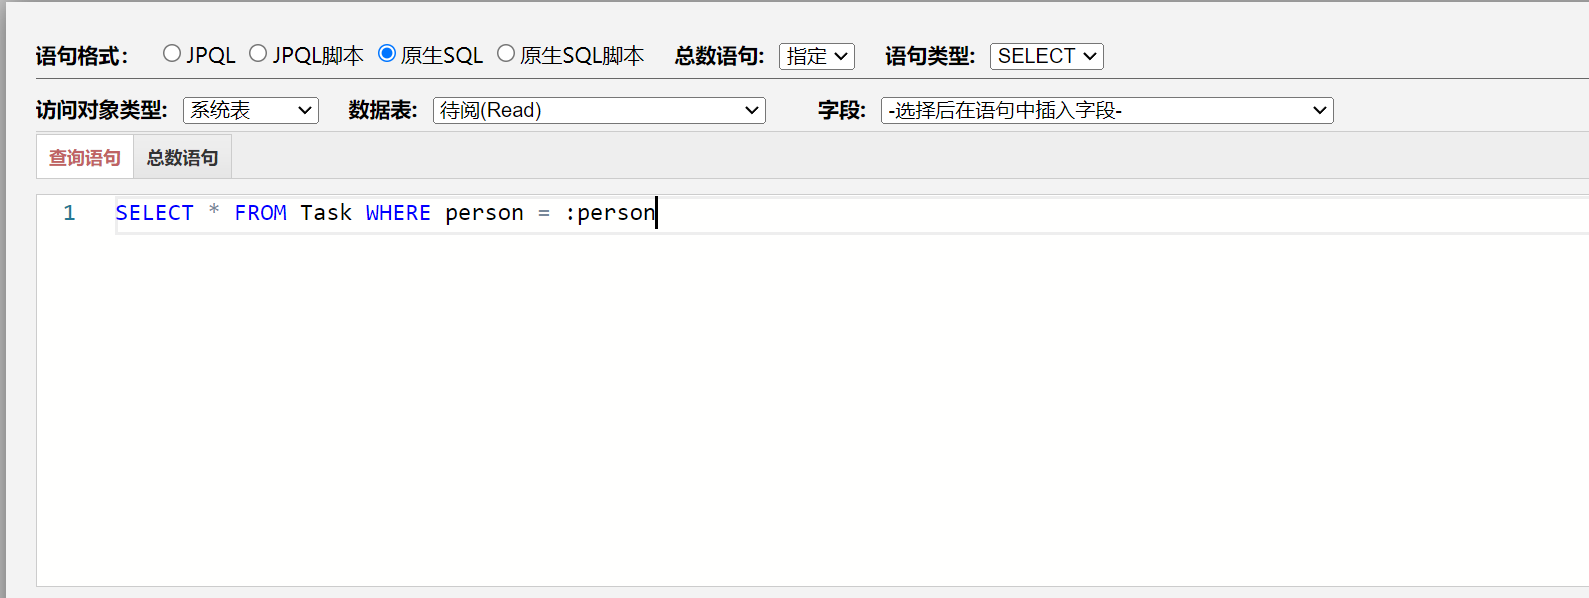
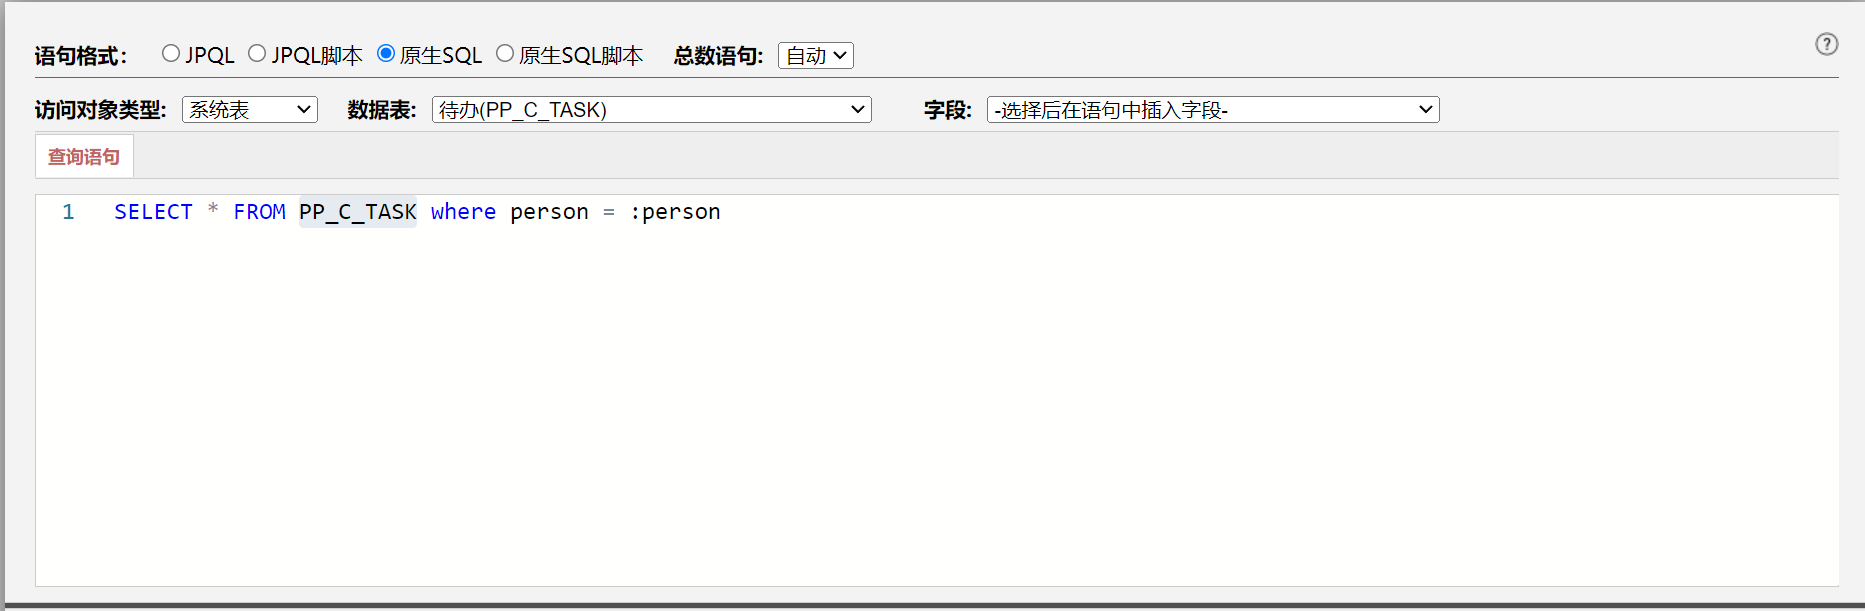
nativeSql

Changed region(s): [[0.0, 0.0602, 0.9868, 0.3913], [0.0, 0.9632, 1.0, 1.0], [0.9559, 0.0602, 0.9868, 0.0903]]

diff --git a/o2web/source/x_component_query_StatementDesigner/Statement.js b/o2web/source/x_component_query_StatementDesigner/Statement.js
@@ -365,20 +365,33 @@ MWF.xApplication.query.StatementDesigner.Statement = new Class({
             // this.runDefaultNode = this.runContentNode.getElement(".o2_statement_statementRunDefaultContent");
             this.setRunnerSize();
             this.designer.addEvent("resize", this.setRunnerSize.bind(this));
+            debugger;
             switch (this.json.format) {
                 case "script":
+                    this.jpqlOfficalTable.show();
+                    this.sqlOfficalTable.hide();
+
                     this.loadJpqlScriptEditor();
                     this.loadJpqlCountScriptEditor();
                     break;
                 case "sql":
+                    this.jpqlOfficalTable.hide();
+                    this.sqlOfficalTable.show();
+
                     this.loadSqlEditor();
                     this.loadSqlCountEditor();
                     break;
                 case "sqlScript":
+                    this.jpqlOfficalTable.hide();
+                    this.sqlOfficalTable.show();
+
                     this.loadSqlScriptEditor();
                     this.loadSqlCountScriptEditor();
                     break;
                 default:
+                    this.jpqlOfficalTable.show();
+                    this.sqlOfficalTable.hide();
+
                     this.loadJpqlEditor();
                     this.loadJpqlCountEditor();
             }
@@ -868,19 +881,19 @@ MWF.xApplication.query.StatementDesigner.Statement = new Class({
             case "com.x.processplatform.core.entity.content.Task":
                 return "PP_C_TASK";
             case "com.x.processplatform.core.entity.content.TaskCompleted":
-                return "";
+                return "PP_C_TASKCOMPLETED";
             case "com.x.processplatform.core.entity.content.Read":
-                return "";
+                return "PP_C_READ";
             case "com.x.processplatform.core.entity.content.ReadCompleted":
-                return "";
+                return "PP_C_READCOMPLETED";
             case "com.x.processplatform.core.entity.content.Work":
-                return "";
+                return "PP_C_WORK";
             case "com.x.processplatform.core.entity.content.WorkCompleted":
-                return "";
+                return "PP_C_WORKCOMPLETED";
             case "com.x.processplatform.core.entity.content.Review":
-                return "";
+                return "PP_C_REVIEW";
             case "com.x.cms.core.entity.Document":
-                return "";
+                return "CMS_DOCUMENT";
         }
     },
     setEvent: function () {
@@ -894,6 +907,9 @@ MWF.xApplication.query.StatementDesigner.Statement = new Class({
                 var v = e.target.get("value");
                 switch (v) {
                     case "sql":
+                        this.jpqlOfficalTable.hide();
+                        this.sqlOfficalTable.show();
+
                         this.jpqlArea.hide();
                         this.jpqlScriptArea.hide();
                         this.sqlArea.show();
@@ -907,6 +923,9 @@ MWF.xApplication.query.StatementDesigner.Statement = new Class({
                         this.loadSqlCountEditor();
                         break;
                     case "sqlScript":
+                        this.jpqlOfficalTable.hide();
+                        this.sqlOfficalTable.show();
+
                         this.jpqlArea.hide();
                         this.jpqlScriptArea.hide();
                         this.sqlArea.hide();
@@ -920,6 +939,9 @@ MWF.xApplication.query.StatementDesigner.Statement = new Class({
                         this.loadSqlCountScriptEditor();
                         break;
                     case "script":
+                        this.jpqlOfficalTable.show();
+                        this.sqlOfficalTable.hide();
+
                         this.jpqlArea.hide();
                         this.jpqlScriptArea.show();
                         this.sqlArea.hide();
@@ -933,6 +955,9 @@ MWF.xApplication.query.StatementDesigner.Statement = new Class({
                         this.loadJpqlCountScriptEditor();
                         break;
                     default:
+                        this.jpqlOfficalTable.show();
+                        this.sqlOfficalTable.hide();
+
                         this.jpqlArea.show();
                         this.jpqlScriptArea.hide();
                         this.sqlArea.hide();
@@ -994,7 +1019,7 @@ MWF.xApplication.query.StatementDesigner.Statement = new Class({
             var entityClassName = e.target.options[e.target.selectedIndex].value;
             this.json.entityClassName = entityClassName;
             if( entityClassName ){
-                this.changeEditorEntityClassName( entityClassName.split(".").getLast() );
+                this.changeEditorEntityClassName( this.getSQLTableByEntity(entityClassName) );
             }
             this.loadFieldSelect();
 
@@ -1076,22 +1101,25 @@ MWF.xApplication.query.StatementDesigner.Statement = new Class({
     },
     changeEditorEntityClassName : function( entityClassName ){
 
-        var replaceClassName = function (re, v) {
-            if( !re )re = /(.*from\s*)/ig;
-            //var re2 = /(\s+)/ig;
-            var arr = re.exec(v);
-            if (arr && arr[0]) {
-                var left = arr[0];
-                v = v.substring(left.length, v.length);
-                //var ar = re2.exec(v);
-                var right = v.substring(v.indexOf(" "), v.length);
-                return left + entityClassName + right;
-            }
-            return "";
-        };
+        debugger;
 
-        var re, v;
+        var re, v, replaceClassName;
         if (this.json.format === "jpql") {
+
+            replaceClassName = function (re, v) {
+                if( !re )re = /(.*from\s*)/ig;
+                //var re2 = /(\s+)/ig;
+                var arr = re.exec(v);
+                if (arr && arr[0]) {
+                    var left = arr[0];
+                    v = v.substring(left.length, v.length);
+                    //var ar = re2.exec(v);
+                    var right = v.substring(v.indexOf(" "), v.length);
+                    return left + entityClassName + right;
+                }
+                return "";
+            };
+
             if (this.jpqlEditor) {
                 // if (this.json.type === "update") re = /(.*update\s*)/ig;
                 v = replaceClassName( re, this.json.data);
@@ -1109,6 +1137,26 @@ MWF.xApplication.query.StatementDesigner.Statement = new Class({
                 }
             }
         }else if (this.json.format === "sql") {
+
+            replaceClassName = function (re, v) {
+                if( !re )re = /(.*from\s*)/ig;
+                //var re2 = /(\s+)/ig;
+                var arr = re.exec(v);
+                if (arr && arr[0]) {
+                    var left = arr[0];
+                    v = v.substring(left.length, v.length);
+                    //var ar = re2.exec(v);
+                    var right;
+                    if( v.indexOf(" ") > -1 ){
+                        right = v.substring(v.indexOf(" "), v.length);
+                    }else{
+                        right = "";
+                    }
+                    return left + entityClassName + right;
+                }
+                return "";
+            };
+
             if (this.sqlEditor) {
                 // if (this.json.type === "update") re = /(.*update\s*)/ig;
                 v = replaceClassName( re, this.json.sql);
@@ -1142,7 +1190,8 @@ MWF.xApplication.query.StatementDesigner.Statement = new Class({
                     this.json.table = name;
                     this.json.tableObj = items[0].data;
 
-                    this.officialTableSelect.options[0].set("selected", true);
+                    this.officialTableSelectJPQL.options[0].set("selected", true);
+                    this.officialTableSelectSQL.options[0].set("selected", true);
                     this.json.entityClassName = "";
 
                     this.changeEditorEntityClassName( name );

diff --git a/o2web/source/x_component_query_StatementDesigner/$Statement/statementDesigner.html b/o2web/source/x_component_query_StatementDesigner/$Statement/statementDesigner.html
@@ -67,14 +67,14 @@
             <div class="o2_statement_statementDesignerOfficialTable_SQL" style="display: none;">
                 <select>
                     <option value=""></option>
-                    <option value="PP_C_TASK" {{if $.data.entityClassName =='com.x.processplatform.core.entity.content.Task'}} selected {{end if}}>{{$.lp.taskInstanceSql}}</option>
-                    <option value="PP_C_TASKCOMPLETED" {{if $.data.entityClassName =='com.x.processplatform.core.entity.content.TaskCompleted'}} selected {{end if}}>{{$.lp.taskCompletedInstanceSql}}</option>
-                    <option value="PP_C_READ" {{if $.data.entityClassName =='com.x.processplatform.core.entity.content.Read'}} selected {{end if}}>{{$.lp.readInstanceSql}}</option>
-                    <option value="PP_C_READCOMPLETED" {{if $.data.entityClassName =='com.x.processplatform.core.entity.content.ReadCompleted'}} selected {{end if}}>{{$.lp.readedInstanceSql}}</option>
-                    <option value="PP_C_WORK" {{if $.data.entityClassName =='com.x.processplatform.core.entity.content.Work'}} selected {{end if}}>{{$.lp.workInstanceSql}}</option>
-                    <option value="PP_C_WORKCOMPLETED" {{if $.data.entityClassName =='com.x.processplatform.core.entity.content.WorkCompleted'}} selected {{end if}}>{{$.lp.workCompletedInstanceSql}}</option>
-                    <option value="PP_C_REVIEW" {{if $.data.entityClassName =='com.x.processplatform.core.entity.content.Review'}} selected {{end if}}>{{$.lp.reviewInstanceSql}}</option>
-                    <option value="CMS_DOCUMENT" {{if $.data.entityClassName =='com.x.cms.core.entity.Document'}} selected {{end if}}>{{$.lp.documentInstanceSql}}</option>
+                    <option value="com.x.processplatform.core.entity.content.Task" {{if $.data.entityClassName =='com.x.processplatform.core.entity.content.Task'}} selected {{end if}}>{{$.lp.taskInstanceSql}}</option>
+                    <option value="com.x.processplatform.core.entity.content.TaskCompleted" {{if $.data.entityClassName =='com.x.processplatform.core.entity.content.TaskCompleted'}} selected {{end if}}>{{$.lp.taskCompletedInstanceSql}}</option>
+                    <option value="com.x.processplatform.core.entity.content.Read" {{if $.data.entityClassName =='com.x.processplatform.core.entity.content.Read'}} selected {{end if}}>{{$.lp.readInstanceSql}}</option>
+                    <option value="com.x.processplatform.core.entity.content.ReadCompleted" {{if $.data.entityClassName =='com.x.processplatform.core.entity.content.ReadCompleted'}} selected {{end if}}>{{$.lp.readedInstanceSql}}</option>
+                    <option value="com.x.processplatform.core.entity.content.Work" {{if $.data.entityClassName =='com.x.processplatform.core.entity.content.Work'}} selected {{end if}}>{{$.lp.workInstanceSql}}</option>
+                    <option value="com.x.processplatform.core.entity.content.WorkCompleted" {{if $.data.entityClassName =='com.x.processplatform.core.entity.content.WorkCompleted'}} selected {{end if}}>{{$.lp.workCompletedInstanceSql}}</option>
+                    <option value="com.x.processplatform.core.entity.content.Review" {{if $.data.entityClassName =='com.x.processplatform.core.entity.content.Review'}} selected {{end if}}>{{$.lp.reviewInstanceSql}}</option>
+                    <option value="com.x.cms.core.entity.Document" {{if $.data.entityClassName =='com.x.cms.core.entity.Document'}} selected {{end if}}>{{$.lp.documentInstanceSql}}</option>
                 </select>
             </div>
         </div>

diff --git a/o2web/source/x_component_query_StatementDesigner/lp/zh-cn.js b/o2web/source/x_component_query_StatementDesigner/lp/zh-cn.js
@@ -62,23 +62,23 @@ MWF.xApplication.query.StatementDesigner.LP = Object.merge( MWF.xApplication.que
     "systemTable":"系统表",
     "customTable":"自建数据表",
 
-    "taskInstance": "To do (Task)",
-    "taskCompletedInstance": "TaskCompleted (TaskCompleted)",
-    "readInstance": "Reading (Read)",
-    "readedInstance": "Read (ReadCompleted)",
-    "workInstance": "Process instance (Work)",
-    "workCompletedInstance": "Completed process instance (WorkCompleted)",
-    "reviewInstance": "Readable (Review)",
-    "documentInstance": "Content Management Document (Document)",
-    
-    "taskInstanceSql": "To do (PP_C_TASK)",
-    "taskCompletedInstanceSql": "TaskCompleted (PP_C_TASKCOMPLETED)",
-    "readInstanceSql": "Reading (PP_C_READ)",
-    "readedInstanceSql": "Read (PP_C_READCOMPLETED)",
-    "workInstanceSql": "Process instance (PP_C_WORK)",
-    "workCompletedInstanceSql": "Completed process instance (PP_C_WORKCOMPLETED)",
-    "reviewInstanceSql": "Readable (PP_C_REVIEW)",
-    "documentInstanceSql": "Content Management Document (CMS_DOCUMENT)",
+    "taskInstance": "待办(Task)",
+    "taskCompletedInstance": "已办(TaskCompleted)",
+    "readInstance": "待阅(Read)",
+    "readedInstance": "已阅(ReadCompleted)",
+    "workInstance": "流程实例(Work)",
+    "workCompletedInstance": "已完成流程实例(WorkCompleted)",
+    "reviewInstance": "可阅读(Review)",
+    "documentInstance": "内容管理文档(Document)",
+
+    "taskInstanceSql":"待办(PP_C_TASK)",
+    "taskCompletedInstanceSql": "已办(PP_C_TASKCOMPLETED)",
+    "readInstanceSql":"待阅(PP_C_READ)",
+    "readedInstanceSql":"已阅(PP_C_READCOMPLETED)",
+    "workInstanceSql":"流程实例(PP_C_WORK)",
+    "workCompletedInstanceSql":"已完成流程实例(PP_C_WORKCOMPLETED)",
+    "reviewInstanceSql":"可阅读(PP_C_REVIEW)",
+    "documentInstanceSql":"内容管理文档(CMS_DOCUMENT)",
 
     "propertyTemplate": {
         // "statementFormat": "如何创建语句：",

diff --git a/o2web/source/x_component_query_StatementDesigner/lp/en.js b/o2web/source/x_component_query_StatementDesigner/lp/en.js
@@ -62,23 +62,24 @@ MWF.xApplication.query.StatementDesigner.LP = Object.merge( MWF.xApplication.que
 
     "systemTable":"System Table",
     "customTable":"self-built table",
-    "taskInstance":"Task()",
-    "taskCompletedInstance": "TaskCompleted",
-    "readInstance":"Read",
-    "readedInstance":"Readed",
-    "workInstance":"Work",
-    "workCompletedInstance":"workCompleted",
-    "reviewInstance":"Review",
-    "documentInstance":"Document",
 
-    "taskInstanceSql":"待办(PP_C_TASK)",
-    "taskCompletedInstanceSql": "已办(PP_C_TASKCOMPLETED)",
-    "readInstanceSql":"待阅(PP_C_READ)",
-    "readedInstanceSql":"已阅(PP_C_READCOMPLETED)",
-    "workInstanceSql":"流程实例(PP_C_WORK)",
-    "workCompletedInstanceSql":"已完成流程实例(PP_C_WORKCOMPLETED)",
-    "reviewInstanceSql":"可阅读(PP_C_REVIEW)",
-    "documentInstanceSql":"内容管理文档(CMS_DOCUMENT)",
+    "taskInstance": "To do (Task)",
+    "taskCompletedInstance": "TaskCompleted (TaskCompleted)",
+    "readInstance": "Reading (Read)",
+    "readedInstance": "Read (ReadCompleted)",
+    "workInstance": "Process instance (Work)",
+    "workCompletedInstance": "Completed process instance (WorkCompleted)",
+    "reviewInstance": "Readable (Review)",
+    "documentInstance": "Content Management Document (Document)",
+
+    "taskInstanceSql": "To do (PP_C_TASK)",
+    "taskCompletedInstanceSql": "TaskCompleted (PP_C_TASKCOMPLETED)",
+    "readInstanceSql": "Reading (PP_C_READ)",
+    "readedInstanceSql": "Read (PP_C_READCOMPLETED)",
+    "workInstanceSql": "Process instance (PP_C_WORK)",
+    "workCompletedInstanceSql": "Completed process instance (PP_C_WORKCOMPLETED)",
+    "reviewInstanceSql": "Readable (PP_C_REVIEW)",
+    "documentInstanceSql": "Content Management Document (CMS_DOCUMENT)",
 
     "propertyTemplate": {
 

diff --git a/o2web/source/x_component_query_StatementDesigner/$Statement/tutorial/tutorial-statement.html b/o2web/source/x_component_query_StatementDesigner/$Statement/tutorial/tutorial-statement.html
@@ -38,7 +38,7 @@ JPQL官网：<a href="https://www.objectdb.com/java/jpa/query/jpql/structure">ht
 中文简介：<a href="https://www.codercto.com/a/4338.html">https://www.codercto.com/a/4338.html</a></p>
 <h3>2、原生SQL语法</h3>
 <p>在v8.0及以后版本中，查询语句支持原生的SQL 语法，如下面的语句从系统表Task中获取待办：</p>
-<pre class="prettyprint source lang-sql"><code>SELECT * FROM Task WHERE person = :person
+<pre class="prettyprint source lang-sql"><code>SELECT * FROM PP_C_TASK WHERE person = :person
 </code></pre>
 <p><img src="img/sql.png" alt="SQL">
 w3schoole网站：<a href="https://www.w3schools.com/sql/default.asp">https://www.w3schools.com/sql/default.asp</a><br />
